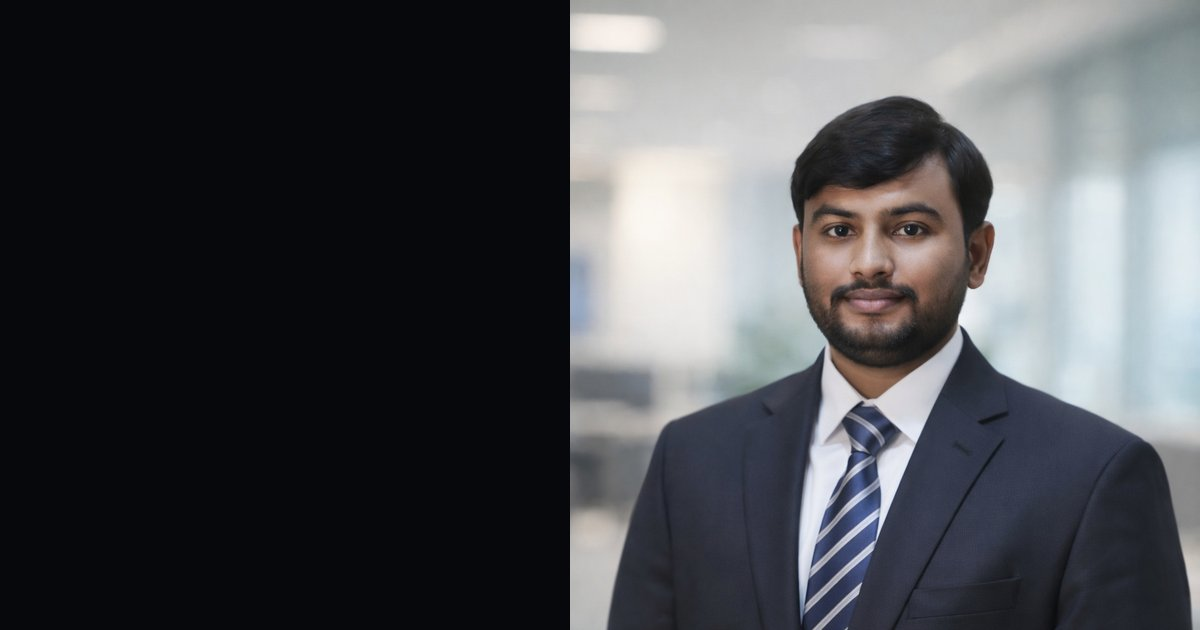
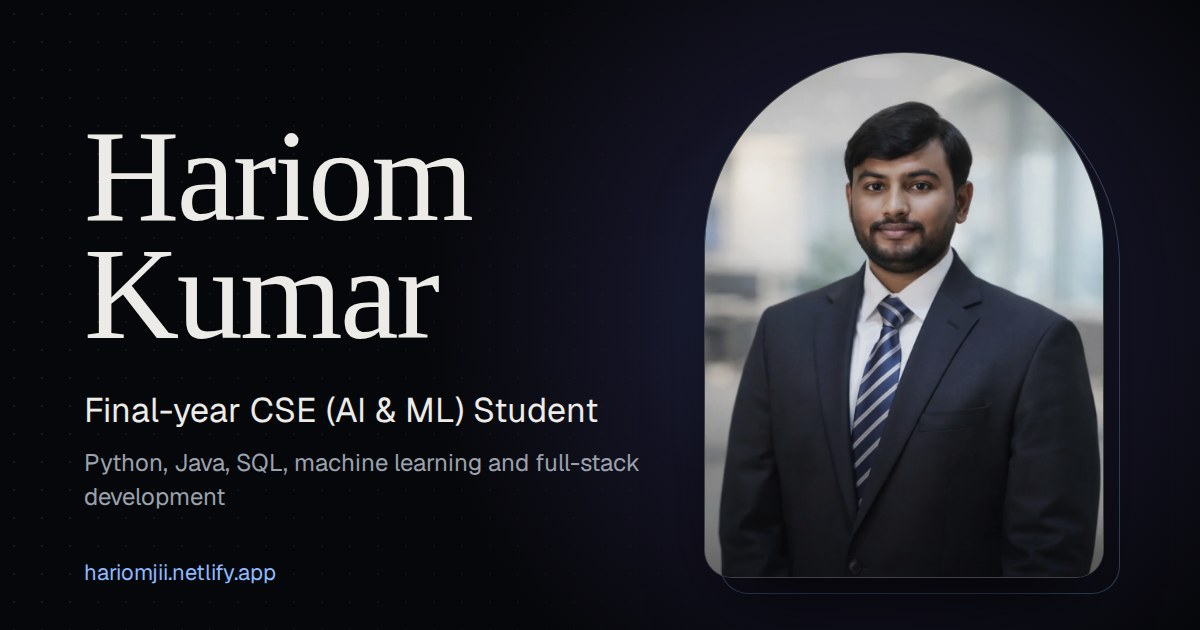
Update README and share image

diff --git a/README (1).md b/README (1).md
@@ -1,0 +1,93 @@
+# Hariom Kumar: 3D Portfolio
+
+A dark, cinematic personal portfolio for **Hariom Kumar**, a final-year B.Tech CSE (AI & ML) student at Galgotias University. It turns a traditional resume into an interactive 3D website while keeping every detail easy to find.
+
+**Live site: [hariomjii.netlify.app](https://hariomjii.netlify.app)**
+
+![Portfolio preview](public/images/og-image.jpg)
+
+## What's on the site
+
+- **Hero:** portrait, title, short introduction, "View My Work" and "Download Resume" buttons
+- **About:** background, interests, professional focus, foundations and strengths
+- **Experience:** Infosys internship shown on a scroll-drawn timeline
+- **Projects:** five projects, with filters for AI & ML and Full-stack, live demo and GitHub links, and expandable details
+- **Skills:** grouped as Programming Languages, CS Fundamentals, AI & Machine Learning, Web Technologies, Database Systems and Soft Skills
+- **Education and Certifications:** B.Tech, Intermediate, High School, and five certifications and assessments
+- **Contact:** email, LinkedIn, GitHub and LeetCode, plus a resume download
+
+All content comes from Hariom's resume and his GitHub project READMEs. Nothing is invented.
+
+## Built with
+
+| Area | Tools |
+| --- | --- |
+| Framework | React 19, TypeScript, Vite |
+| Styling | Tailwind CSS v4 |
+| 3D | Three.js with React Three Fiber |
+| Animation | Framer Motion |
+| Fonts | Instrument Serif and Geist, self-hosted through Fontsource |
+| Hosting | Netlify |
+
+## Design and performance notes
+
+- One fixed WebGL scene sits behind the page. The camera moves down as you scroll and leans toward the cursor, and a low-poly crystal changes position for each section.
+- Three.js loads as a separate chunk once the browser is idle, so text and the photo appear first.
+- Fewer particles, a lower pixel ratio and no pointer effects on phones, plus an automatic pixel-ratio drop if the frame rate falls.
+- Respects `prefers-reduced-motion`: the intro, tilt, magnetic buttons and camera movement are switched off.
+- Works without WebGL. The 3D layer is skipped and the page still shows all content.
+- Accessible: skip link, landmarks, visible focus rings, keyboard-friendly menu and project details, and alt text.
+- SEO: page title, description, Open Graph tags and JSON-LD `Person` data.
+
+## Run it locally
+
+You need [Node.js](https://nodejs.org) 20 or newer.
+
+```bash
+git clone https://github.com/Hariomxlx/Hariom_portfolio-.git
+cd Hariom_portfolio-
+npm install
+npm run dev        # opens at http://localhost:5173
+```
+
+Other commands:
+
+```bash
+npm run build      # type-checks, then writes the site to ./dist
+npm run preview    # serves ./dist locally
+```
+
+## Project structure
+
+```
+src/
+  data/resume.ts        all content: text, dates, links, projects, skills
+  sections/             Hero, About, Experience, Projects, Skills, Education, Certifications, Contact
+  components/           Navbar, Preloader, MagneticButton, TiltCard, Reveal, Section, Icons
+  components/three/     Scene, CameraRig, Particles, Crystal, Floor
+  lib/motionSync.ts     scroll and pointer state shared with the 3D scene
+public/
+  Hariom_Kumar_Resume.pdf   the downloadable resume
+  images/                   portrait and share preview
+```
+
+## Update the content
+
+Everything on the site is in **`src/data/resume.ts`**.
+
+- **Add a project:** copy one object in the `projects` list and edit it. `category` is `'ai-ml'` or `'full-stack'`, `demo` is optional, and `preview` is a `{ kind: 'stack', label, layers }` diagram with up to three layers.
+- **Update the resume:** replace `public/Hariom_Kumar_Resume.pdf`, keeping the file name.
+- **Hide the phone number:** set `showPhone: false` in the same file.
+
+## Deploy
+
+Run `npm run build` and upload the `dist` folder to any static host such as Netlify, Vercel or Cloudflare Pages. Asset paths are relative, so it also works from a sub-path.
+
+For link previews on LinkedIn and WhatsApp, `og:image` in `index.html` must be the full address of the image, for example `https://hariomjii.netlify.app/images/og-image.jpg`.
+
+## Contact
+
+- Email: [hariomkumarnke25@gmail.com](mailto:hariomkumarnke25@gmail.com)
+- LinkedIn: [hariom-kumar-68b82b2ab](https://www.linkedin.com/in/hariom-kumar-68b82b2ab)
+- GitHub: [Hariomxlx](https://github.com/Hariomxlx)
+- LeetCode: [Hariom49](https://leetcode.com/u/Hariom49/)
